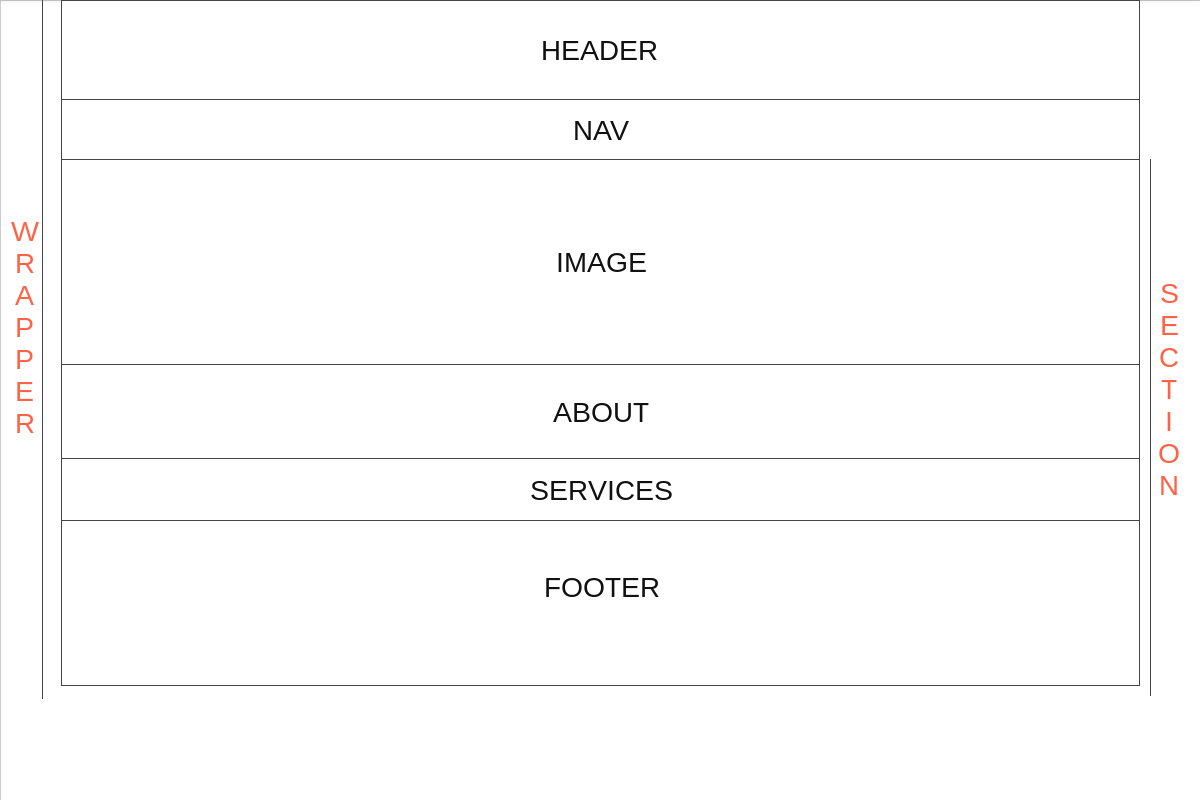
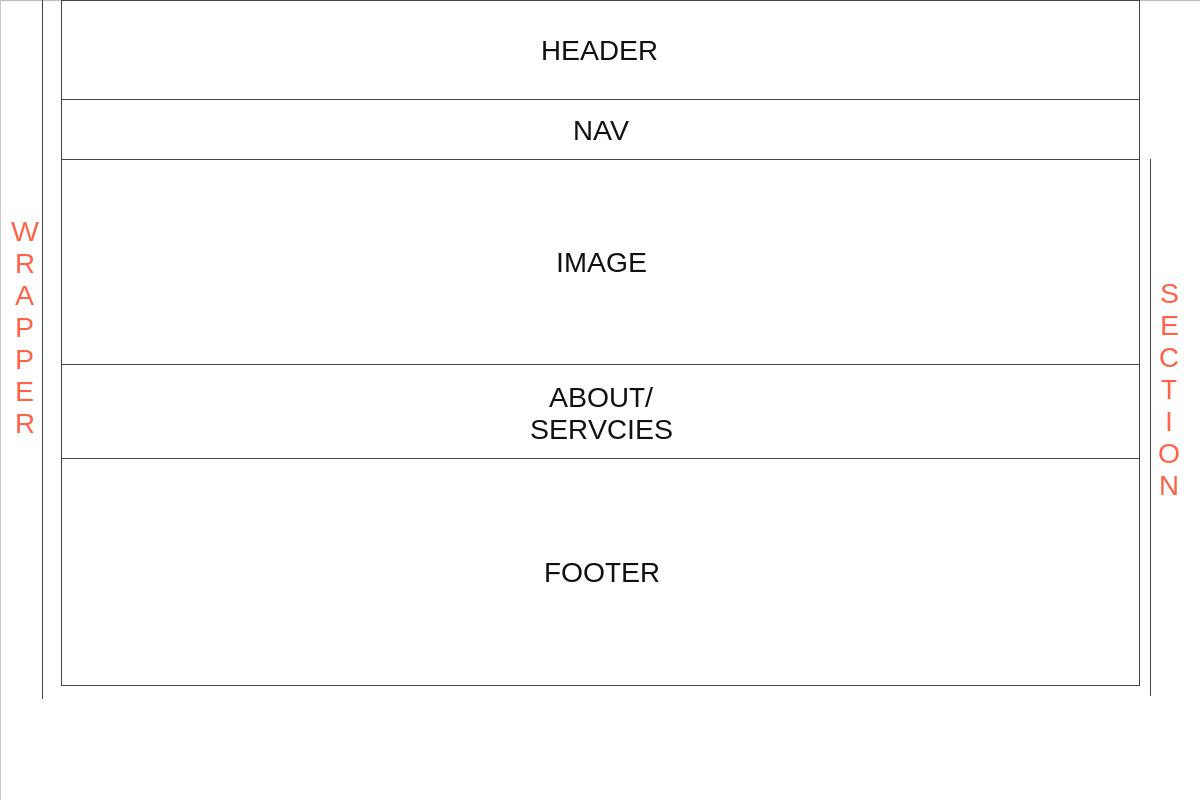
unit5.week5

Changed region(s): [[0.4317, 0.4688, 0.555, 0.5625], [0.4625, 0.6875, 0.555, 0.75], [0.4317, 0.5938, 0.555, 0.625]]

diff --git a/unit_5/index.html b/unit_5/index.html
@@ -5,15 +5,34 @@
 	<title>Rose's Graphic Design</title>
 </head>
 <body>
-	<h1>Rose's Graphic Design</h1>
+ <div class="wrapper">
+    <header>
+<h1>Rose's Graphic Design</h1>
 	<p id="slogan">She creates something extraordinary.</p>
-	<img src="images/roseexampleimg copy.jpg" alt="Purple Logo">
+    </header>
+    <nav>
+<p> Lorem ipsum dolor sit amet, consectetur adipiscing elit. Donec eget auctor justo, in gravida odio. Donec placerat sed justo non vehicula. Integer eget porta felis. Quisque at massa in sem luctus tristique. Duis facilisis tellus massa, at fringilla orci aliquam et. Maecenas eros tortor, volutpat eget congue id, dapibus vel neque. In posuere a elit ac commodo. Ut gravida blandit tortor, id tempor nisi lobortis quis. Pellentesque vitae egestas velit. Nam et accumsan augue, vitae commodo sem. Nullam feugiat laoreet vulputate.</p>
+    </nav>
+    <section id="one"> 
+        <aside class="img">
+	<img src="images/roseexampleimg copy 2.jpg" alt="Purple Logo">
+        </aside>
+        <article class="description">
 	<p>My spark for graphic design took off in 2015 when I came across a couple of Tumblr images. After doing my research, I was brought upon Photoshop CC, probably the best image-editing software out there. Also, my favorite program to be on. Rose's Graphic Design is an online business that intends to do the following: </p>
 	<ul>
 		<li>Custom designs for your websites, businesses, etc.</li>
 		<li>Low prices.</li>
 		<li>The highest quality designs for your satisfaction.</li>
 	</ul>
+
+	</article>
+    </section>
+    <footer>
+          <h2>Contact Me:</h2>
+        <a href="mailto:rrodriguez.ptech@gmail.com"><p>rrodriguez.ptech@gmail.com<p></a>
+
+    </footer>
+    </div> 
 
 </body>
 </html>

diff --git a/unit_5/css/style.css b/unit_5/css/style.css
@@ -4,10 +4,10 @@ body{
 	background-color: lavender;
 
 }
-h1, p{
+h1, p, h2{
 	color: purple;
 }
-h1{
+h1, h2{
 	text-align: center;
 	text-decoration: underline;
 	font-family: 'Cairo';
@@ -34,4 +34,28 @@ ul, li{
 img{
 	margin: auto;
 	display: block;
+}
+
+header{
+	background-color: #FFED74;
+}
+
+nav{
+	background-color: #E8C66A;
+}
+
+aside{
+	background-color: #FFC675;
+}
+
+article{
+	background-color: #E89C6C;
+}
+
+footer{
+	background-color: #FF957E;
+}
+
+div/ section{
+	background-color: #FFE2B8;
 }
